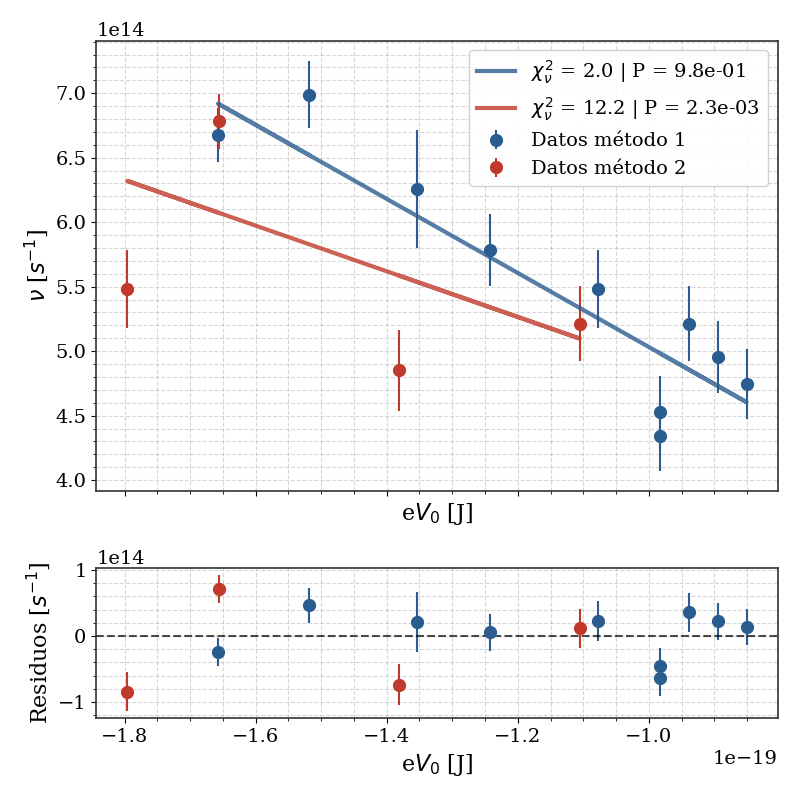
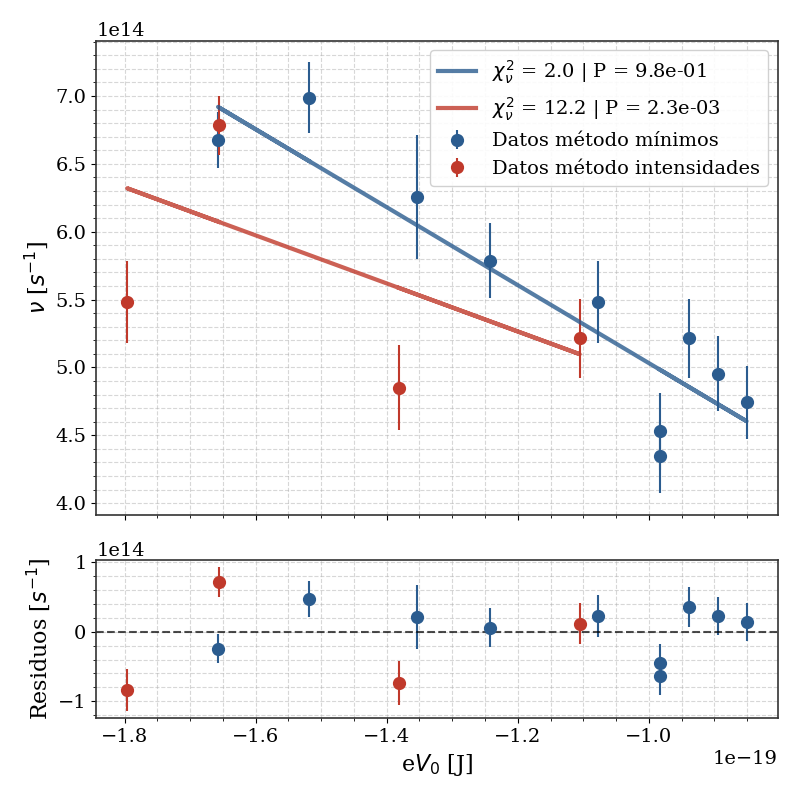
corregi un par de graficos para el informe
cambie cuestiones de notación para los gráficos que pegué en el informe, y sumé a mi gráfico los valores adimensionales de la intensidad del LED.

diff --git a/clase4/voltaje_retardador_zoomeados_para_informe.py b/clase4/voltaje_retardador_zoomeados_para_informe.py
@@ -1,0 +1,187 @@
+import matplotlib.pyplot as plt
+import numpy as np
+import pandas as pd
+
+plt.style.use('./estiloGraficos.mplstyle')
+
+def tuki2(archivo):
+    df = pd.read_csv(archivo, skiprows=1, sep=",")
+    df.columns = ['l', 'I',"d", "k"]
+    df['l'] = pd.to_numeric(df['l'], errors='coerce')
+    df['I'] = pd.to_numeric(df['I'], errors='coerce')
+    df['d'] = pd.to_numeric(df['d'], errors='coerce')
+    df['k'] = pd.to_numeric(df['k'], errors='coerce')
+    v = df["l"]
+    ampl = df["I"]
+    fase = df["d"]
+    radio = df["k"]
+    return v, ampl, fase, radio
+
+#%%
+datos = [# ("barrido_420nm_5V.txt","420 nm", "CurvaLambda420nm.png"),
+         #("barrido_420nm_5V_bien.txt","420 nm", "CurvaLambda420nm.png"),
+         #("barrido_420nm_5V_bienralta.txt","420 nm", "CurvaLambda420nm.png"),
+         ("barrido_420nm_5V_clase3.txt","420 nm", "CurvaLambda420nm.png")]
+
+# grafico por separado
+for (archivo, etiqueta, guardado) in datos:
+    fig1, ax1 = plt.subplots(figsize=(8,6))
+    ax1.set_title("A", fontsize=30)
+    v, i, _, _= tuki2(archivo)
+    
+    # Convierto a numpy arrays para la búsqueda del mínimo
+    v = np.array(v)
+    i = np.array(i) * 1e12 # paso a unidades de pA
+    
+    error_sistematico_i = np.abs(i) * 0.01 
+    error_sistematico_v = np.abs(v) * 0.01 
+    
+    # --- BÚSQUEDA DEL PUNTO MÁS CERCANO A CERO ---
+    # Buscamos el mínimo del valor absoluto[cite: 2]
+    indice_minimo = np.argmin(np.abs(i))
+    v_min = v[indice_minimo]
+    i_min = i[indice_minimo]
+    
+    # Incerteza como la mitad de la distancia espacial al punto siguiente[cite: 2]
+    if indice_minimo < len(v) - 1:
+        error_v_min = np.abs(v[indice_minimo + 1] - v_min) / 2
+    else:
+        error_v_min = np.abs(v_min - v[indice_minimo - 1]) / 2
+
+    # Graficamos con capsize para visualizar las incertezas
+    ax1.errorbar(v, i, xerr=error_sistematico_v, yerr=error_sistematico_i,
+                 fmt="o", label=r"$\lambda_{nom}$ = "f"{etiqueta}", capsize=3, alpha=0.8)
+                 
+    # Línea vertical marcando el cruce en el gráfico principal
+    ax1.axvline(v_min, color='red', linestyle='--', alpha=0.7, 
+                label="Valor elegido")
+    ax1.axhline(0, color='black', linestyle='--', alpha=0.7, 
+                label="Origen")
+    # --- INICIO DEL ZOOM ---
+    # Posición del recuadro dentro de la figura: [posición_x, posición_y, ancho, alto]
+    axins1 = ax1.inset_axes([0.1, 0.3, 0.6, 0.4]) 
+    
+    # Re-graficamos los datos dentro del recuadro sumando capsize
+    axins1.errorbar(v, i, xerr=error_sistematico_v, yerr=error_sistematico_i, 
+                    fmt="o", capsize=3, alpha=0.8)
+                    
+    # Trazamos la línea vertical también dentro del zoom
+    axins1.axvline(v_min, color='red', linestyle='--', alpha=0.7)
+    axins1.axhline(0, color='black', linestyle='--', alpha=0.7)
+
+    # Límites de tu zona de interés para el zoom
+    axins1.set_xlim(-2, -0.8) 
+    axins1.set_ylim(-8, 8) 
+    axins1.grid(which="both", alpha=0.3)
+    axins1.minorticks_on()
+    
+    # Dibuja las líneas que conectan la zona original con el recuadro
+    ax1.indicate_inset_zoom(axins1, edgecolor="black")
+    # --- FIN DEL ZOOM ---
+    
+    ax1.set_xlabel(r"$V_0$ [V]")
+    ax1.set_ylabel(r"$i_f$ [pA]")
+    ax1.legend()
+    fig1.tight_layout()
+    fig1.savefig(guardado)
+    plt.show()
+
+#%%
+datos = [ ("barrido_570nm_2V.txt","barrido_570nm_3V.txt",
+          "barrido_570nm_4V.txt","barrido_570nm_5V.txt")]
+
+#%%
+potenciales_corte = []
+errores_potenciales = []
+for archivos in datos:
+    arch_2v, arch_3v, arch_4v, arch_5v = archivos
+    longitud_onda = arch_2v.split('_')[1]
+    v2, i2, _, _ = tuki2(arch_2v)
+    v3, i3, _, _ = tuki2(arch_3v)
+    v4, i4, _, _ = tuki2(arch_4v)
+    v5, i5, _, _ = tuki2(arch_5v)
+    i2 = i2*1e12 # paso a pA
+    i3 = i3*1e12
+    i4 = i4*1e12
+    i5 = i5*1e12
+    e_v2 = np.abs(v2)*0.01
+    e_v3 = np.abs(v3)*0.01
+    e_v4 = np.abs(v4)*0.01
+    e_v5 = np.abs(v5)*0.01
+    e_i2 = np.abs(i2)*0.01
+    e_i3 = np.abs(i3)*0.01
+    e_i4 = np.abs(i4)*0.01
+    e_i5 = np.abs(i5)*0.01
+    I_1 = 1.00
+    I_2 = 0.74
+    I_3 = 0.49
+    I_4 = 0.21
+    # Armamos el DataFrame unificado
+    df_unido = pd.DataFrame({'voltage': v5, '5V': i5})
+    df_unido = df_unido.merge(pd.DataFrame({'voltage': v4, '4V': i4}), on='voltage')
+    df_unido = df_unido.merge(pd.DataFrame({'voltage': v3, '3V': i3}), on='voltage')
+    df_unido = df_unido.merge(pd.DataFrame({'voltage': v2, '2V': i2}), on='voltage')
+    
+    # Calculamos la dispersión y ubicamos el voltaje de convergencia
+    columnas_corriente = ['5V', '4V', '3V', '2V']
+    df_unido['dispersion'] = df_unido[columnas_corriente].max(axis=1) - df_unido[columnas_corriente].min(axis=1)
+    
+    punto_cruce = df_unido.loc[df_unido['dispersion'].idxmin()]
+    
+    # Asignamos el voltaje y su incerteza (1% sistemático)
+    v_corte = punto_cruce['voltage']
+    error_v_corte = np.abs(v_corte) * 0.01
+    
+    # Guardamos en las listas
+    potenciales_corte.append(v_corte)
+    errores_potenciales.append(error_v_corte)
+
+    print(f"--- Análisis para {longitud_onda} ---")
+    print(f"Voltaje de corte: ({v_corte:.3f} ± {error_v_corte:.3f}) V\n")
+
+    fig, ax = plt.subplots(figsize=(8,6))
+    ax.set_title("B", fontsize=30)
+    # Gráfico principal (sin capsize)
+    ax.errorbar(v5, np.array(i5), xerr=e_v5, yerr=e_i5, fmt="o", label=r"$I_1$ = 1.00", alpha=0.8)
+    ax.errorbar(v4, np.array(i4), xerr=e_v4, yerr=e_i4, fmt="o", label=r"$I_2$ = 0.74", alpha=0.8)
+    ax.errorbar(v3, np.array(i3), xerr=e_v3, yerr=e_i3, fmt="o", label=r"$I_3$ = 0.49", alpha=0.8)
+    ax.errorbar(v2, np.array(i2), xerr=e_v2, yerr=e_i2, fmt="o", label=r"$I_4$ = 0.21", alpha=0.8)
+    ax.plot([], [], " ", label=r"$\lambda_{nom}$ = "f"{longitud_onda}")    
+    
+    # Trazamos la línea representativa (sin el valor numérico en el label)
+    ax.axvline(v_corte, color='red', linestyle='--', alpha=0.6, label="Valor elegido")
+               
+    # --- INICIO DEL ZOOM ---
+    # Posición del recuadro: arriba a la izquierda [x, y, ancho, alto]
+    axins = ax.inset_axes([0.1,0.1, 0.5, 0.4])
+    
+    # Re-graficamos los datos dentro del zoom (sin capsize)
+    axins.errorbar(v5, np.array(i5), xerr=e_v5, yerr=e_i5, fmt="o", alpha=0.8)
+    axins.errorbar(v4, np.array(i4), xerr=e_v4, yerr=e_i4, fmt="o", alpha=0.8)
+    axins.errorbar(v3, np.array(i3), xerr=e_v3, yerr=e_i3, fmt="o", alpha=0.8)
+    axins.errorbar(v2, np.array(i2), xerr=e_v2, yerr=e_i2, fmt="o", alpha=0.8)
+    axins.axvline(v_corte, color='red', linestyle='--', alpha=0.6)
+    
+    # Centrado alrededor del voltaje de corte
+    axins.set_xlim(v_corte - 0.15, v_corte + 0.15)
+    axins.set_ylim(-8,8) 
+    axins.grid(which="both", alpha=0.3)
+    axins.minorticks_on()
+    
+    # Conectores visuales del zoom
+    ax.indicate_inset_zoom(axins, edgecolor="black")
+    # --- FIN DEL ZOOM ---
+
+    ax.set_xlabel(r"$V_0$ [V]")
+    ax.set_ylabel(r"$i_f$ [pA]")
+    ax.legend(loc="lower right") # Moví la leyenda para no pisar el zoom
+    ax.grid(which="major")
+    ax.grid(which="minor", alpha=0.3)
+    ax.minorticks_on()
+    fig.tight_layout()
+    fig.savefig("570nmVariosVoltajesParaInforme.png")
+    plt.show()
+
+potenciales_corte = np.array(potenciales_corte)
+errores_potenciales = np.array(errores_potenciales)
+

diff --git a/clase3/codigolabo5Clase3/figuraLuzBlanca.py b/clase3/codigolabo5Clase3/figuraLuzBlanca.py
@@ -29,7 +29,7 @@ ax.set_xlabel("longitud de onda [nm]")
 ax.set_ylabel("Intensidad")
 ax.set_title("Luz Blanca a distintos voltajes")
 ax.legend()
-
+None
 
 #%%
 intencidad = np.array([ 
@@ -38,7 +38,11 @@ intencidad = np.array([
                     trapezoid(df3['I'][:-1],df3['l'][:-1]),
                     trapezoid(df4['I'][:-1],df4['l'][:-1])
                     ])
-
+# calculo la intensidad de cada curva en u.a.
+intencidad = intencidad / intencidad[3]
+for i, valor in enumerate(reversed(intencidad), start=1):
+    print(f"I_{i} = {valor:.2f}")
+# ---------------------
 voltaje = np.array([2,3,4,5])
 fig2, ax2 = plt.subplots()
 ax2.scatter(voltaje, intencidad)
@@ -60,8 +64,8 @@ voltaje = np.array([2,3,4,5])
 fig3, ax3 = plt.subplots()
 ax3.scatter(voltaje, maximos)
 ax3.set_xlabel("voltaje [V]")
-ax3.set_ylabel("Intencidad")
-ax3.set_title(" Ajuste usando maximos")
+ax3.set_ylabel("Intensidad [u.a.]")
+#ax3.set_title(" Ajuste usando maximos") # le saco el titulo xq las figuras van sin titulo en el informe.
 
 def f(x,a,b):
     return a*x +b

diff --git a/clase4/ajuste_planck_dos_criterios.py b/clase4/ajuste_planck_dos_criterios.py
@@ -111,13 +111,13 @@ print(f"p-valor método 2: {p_valor_m2:.4e}\n")
 
 fig, (ax, ax_res) = plt.subplots(2, 1, figsize=(8,8), sharex=True, 
                                     gridspec_kw={'height_ratios': [3, 1]})
-ax.errorbar(datos_ev0_m1,nu_m1, yerr=e_nu_m1, fmt="o", label="Datos método 1",color="C0")
-ax.errorbar(datos_ev0_m2,nu_m2, yerr=e_nu_m2, fmt="o", label="Datos método 2",color="C1")
+ax.errorbar(datos_ev0_m1,nu_m1, yerr=e_nu_m1, fmt="o", label="Datos método mínimos",color="C0")
+ax.errorbar(datos_ev0_m2,nu_m2, yerr=e_nu_m2, fmt="o", label="Datos método intensidades",color="C1")
 ax.plot(datos_ev0_m1, y_fit_m1, 
         label=r"$\chi_{\nu}^2$ = "f"{chi_2red_m1:.1f} | P = {p_valor_m1:.1e}", c="C0", alpha=0.8, lw=3)
 ax.plot(datos_ev0_m2, y_fit_m2,
         label=r"$\chi_{\nu}^2$ = "f"{chi_2red_m2:.1f} | P = {p_valor_m2:.1e}", c="C1", alpha=0.8, lw=3)
-ax.set_xlabel(r"e$V_0$ [J]")
+#ax.set_xlabel(r"e$V_0$ [J]")
 ax.set_ylabel(r"$\nu$ [$s^{-1}$]")
 ax.legend()
 ax_res.errorbar(datos_ev0_m1, res_m1, yerr=e_nu_m1, fmt="o", color="C0")
